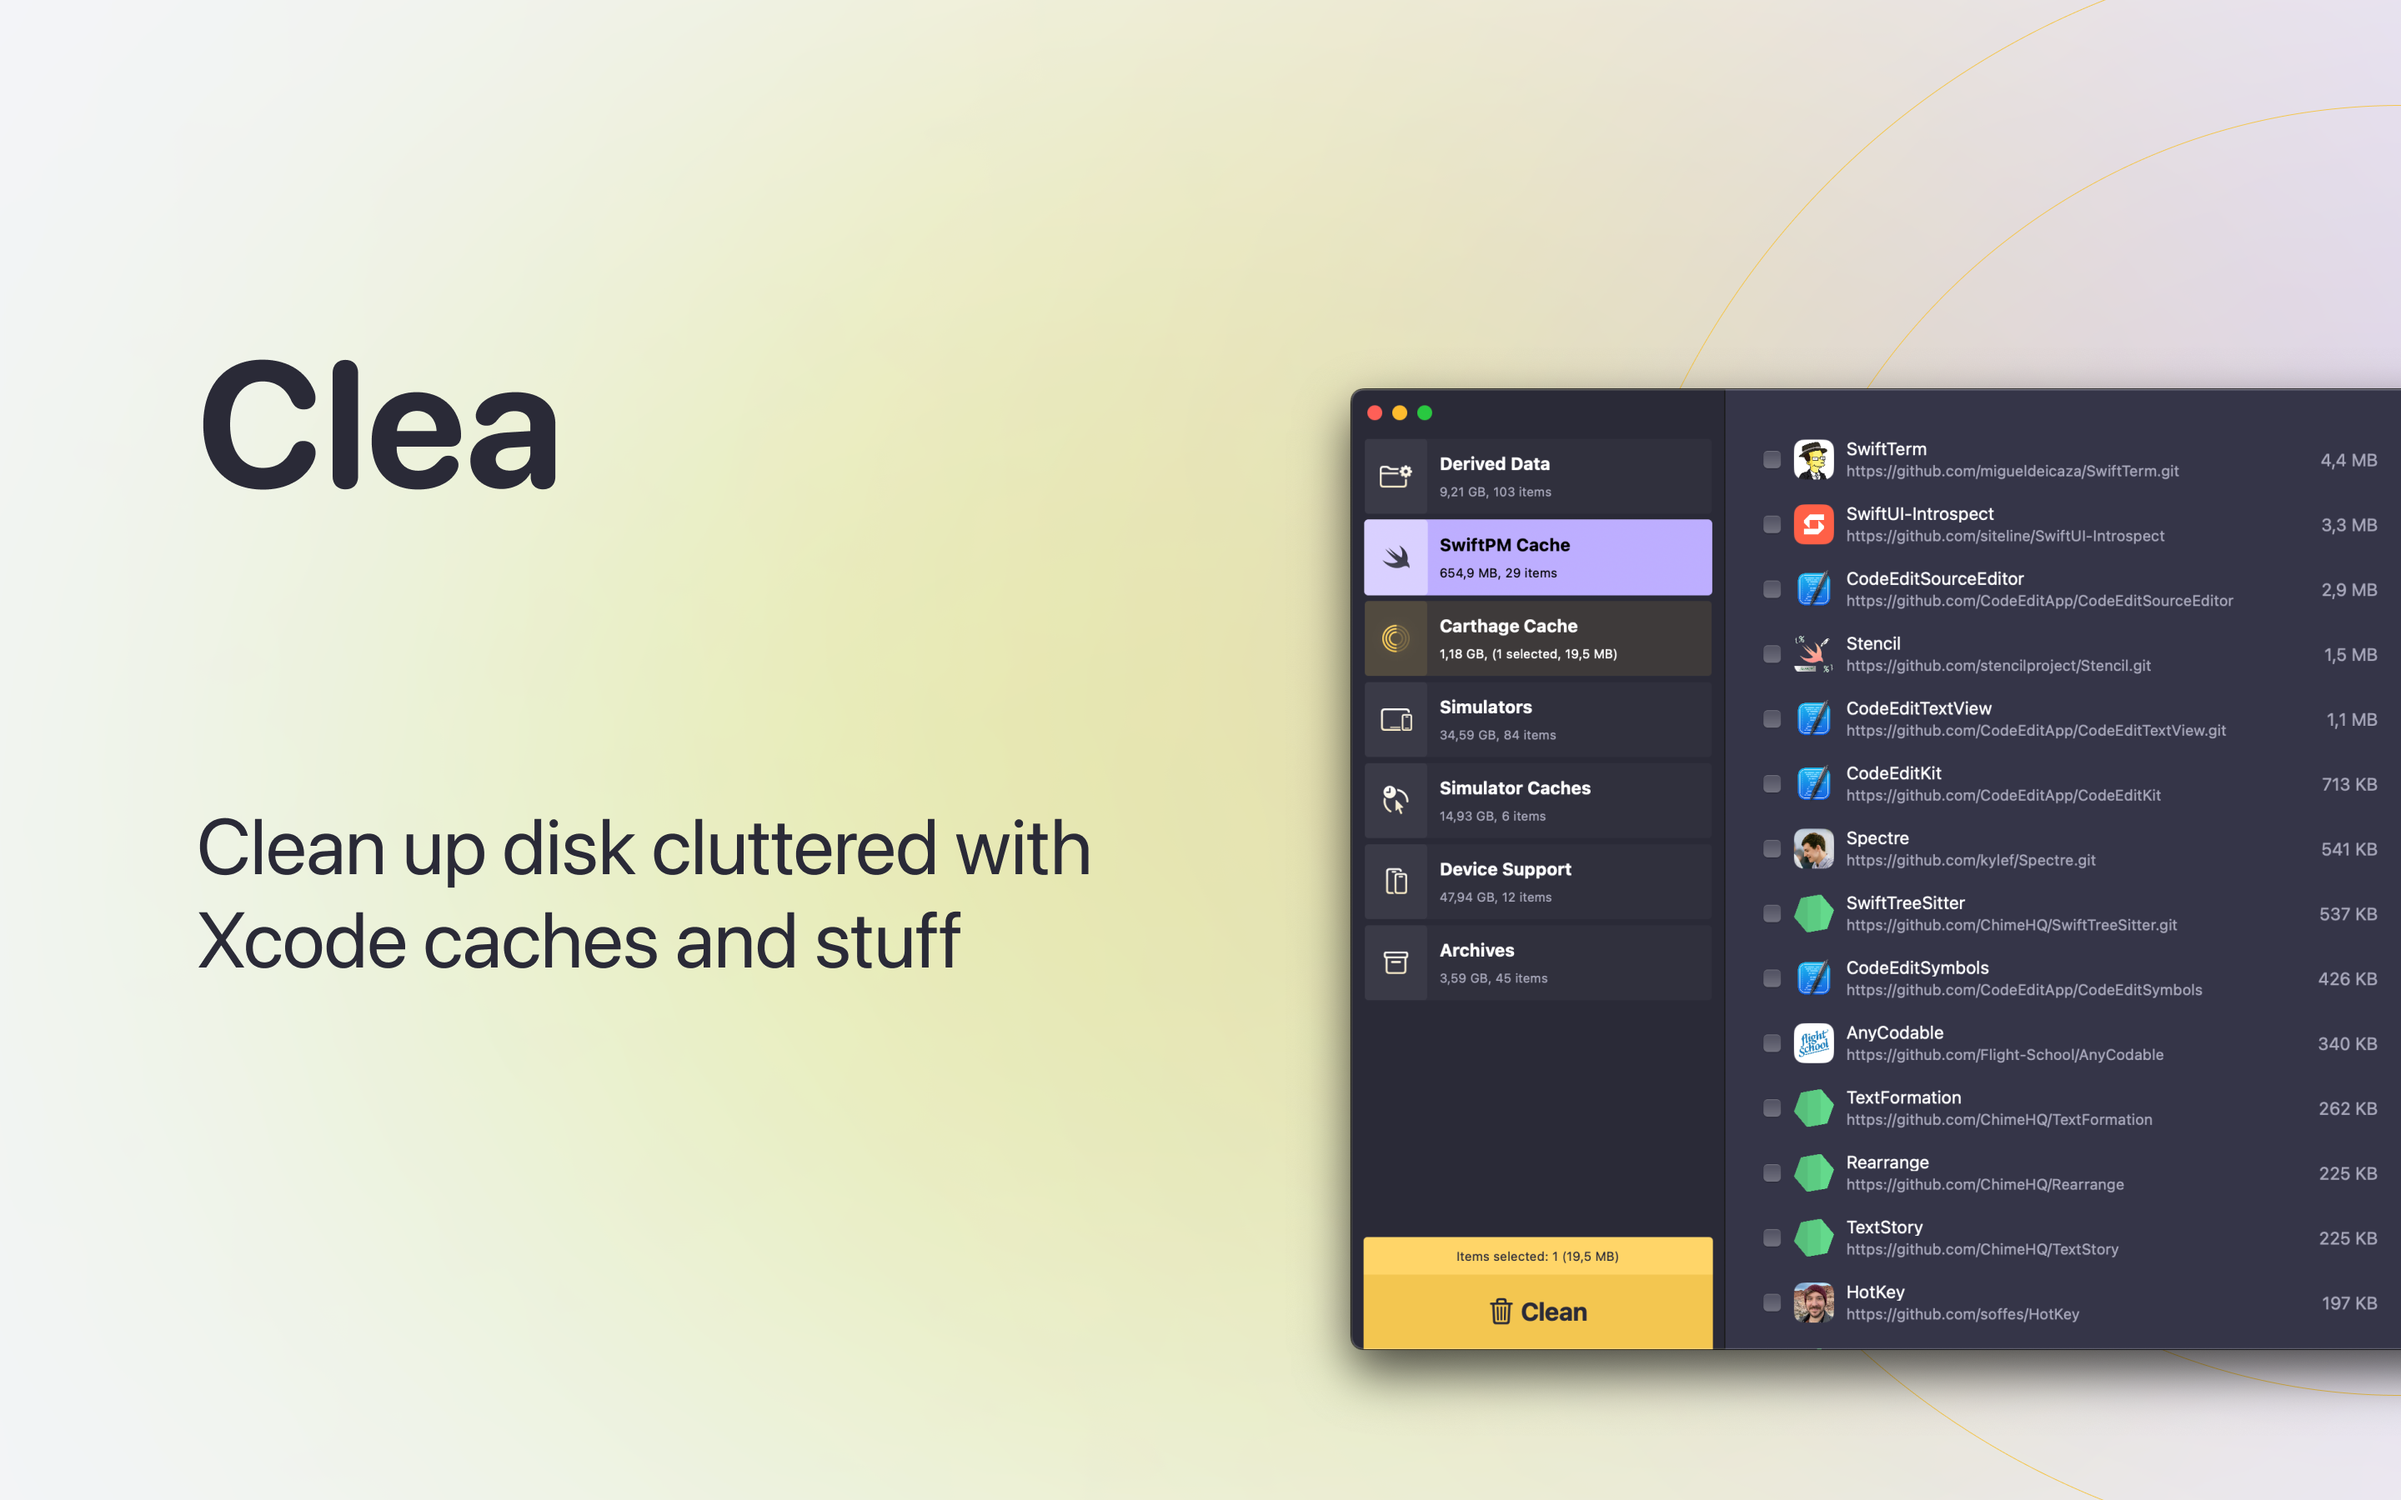
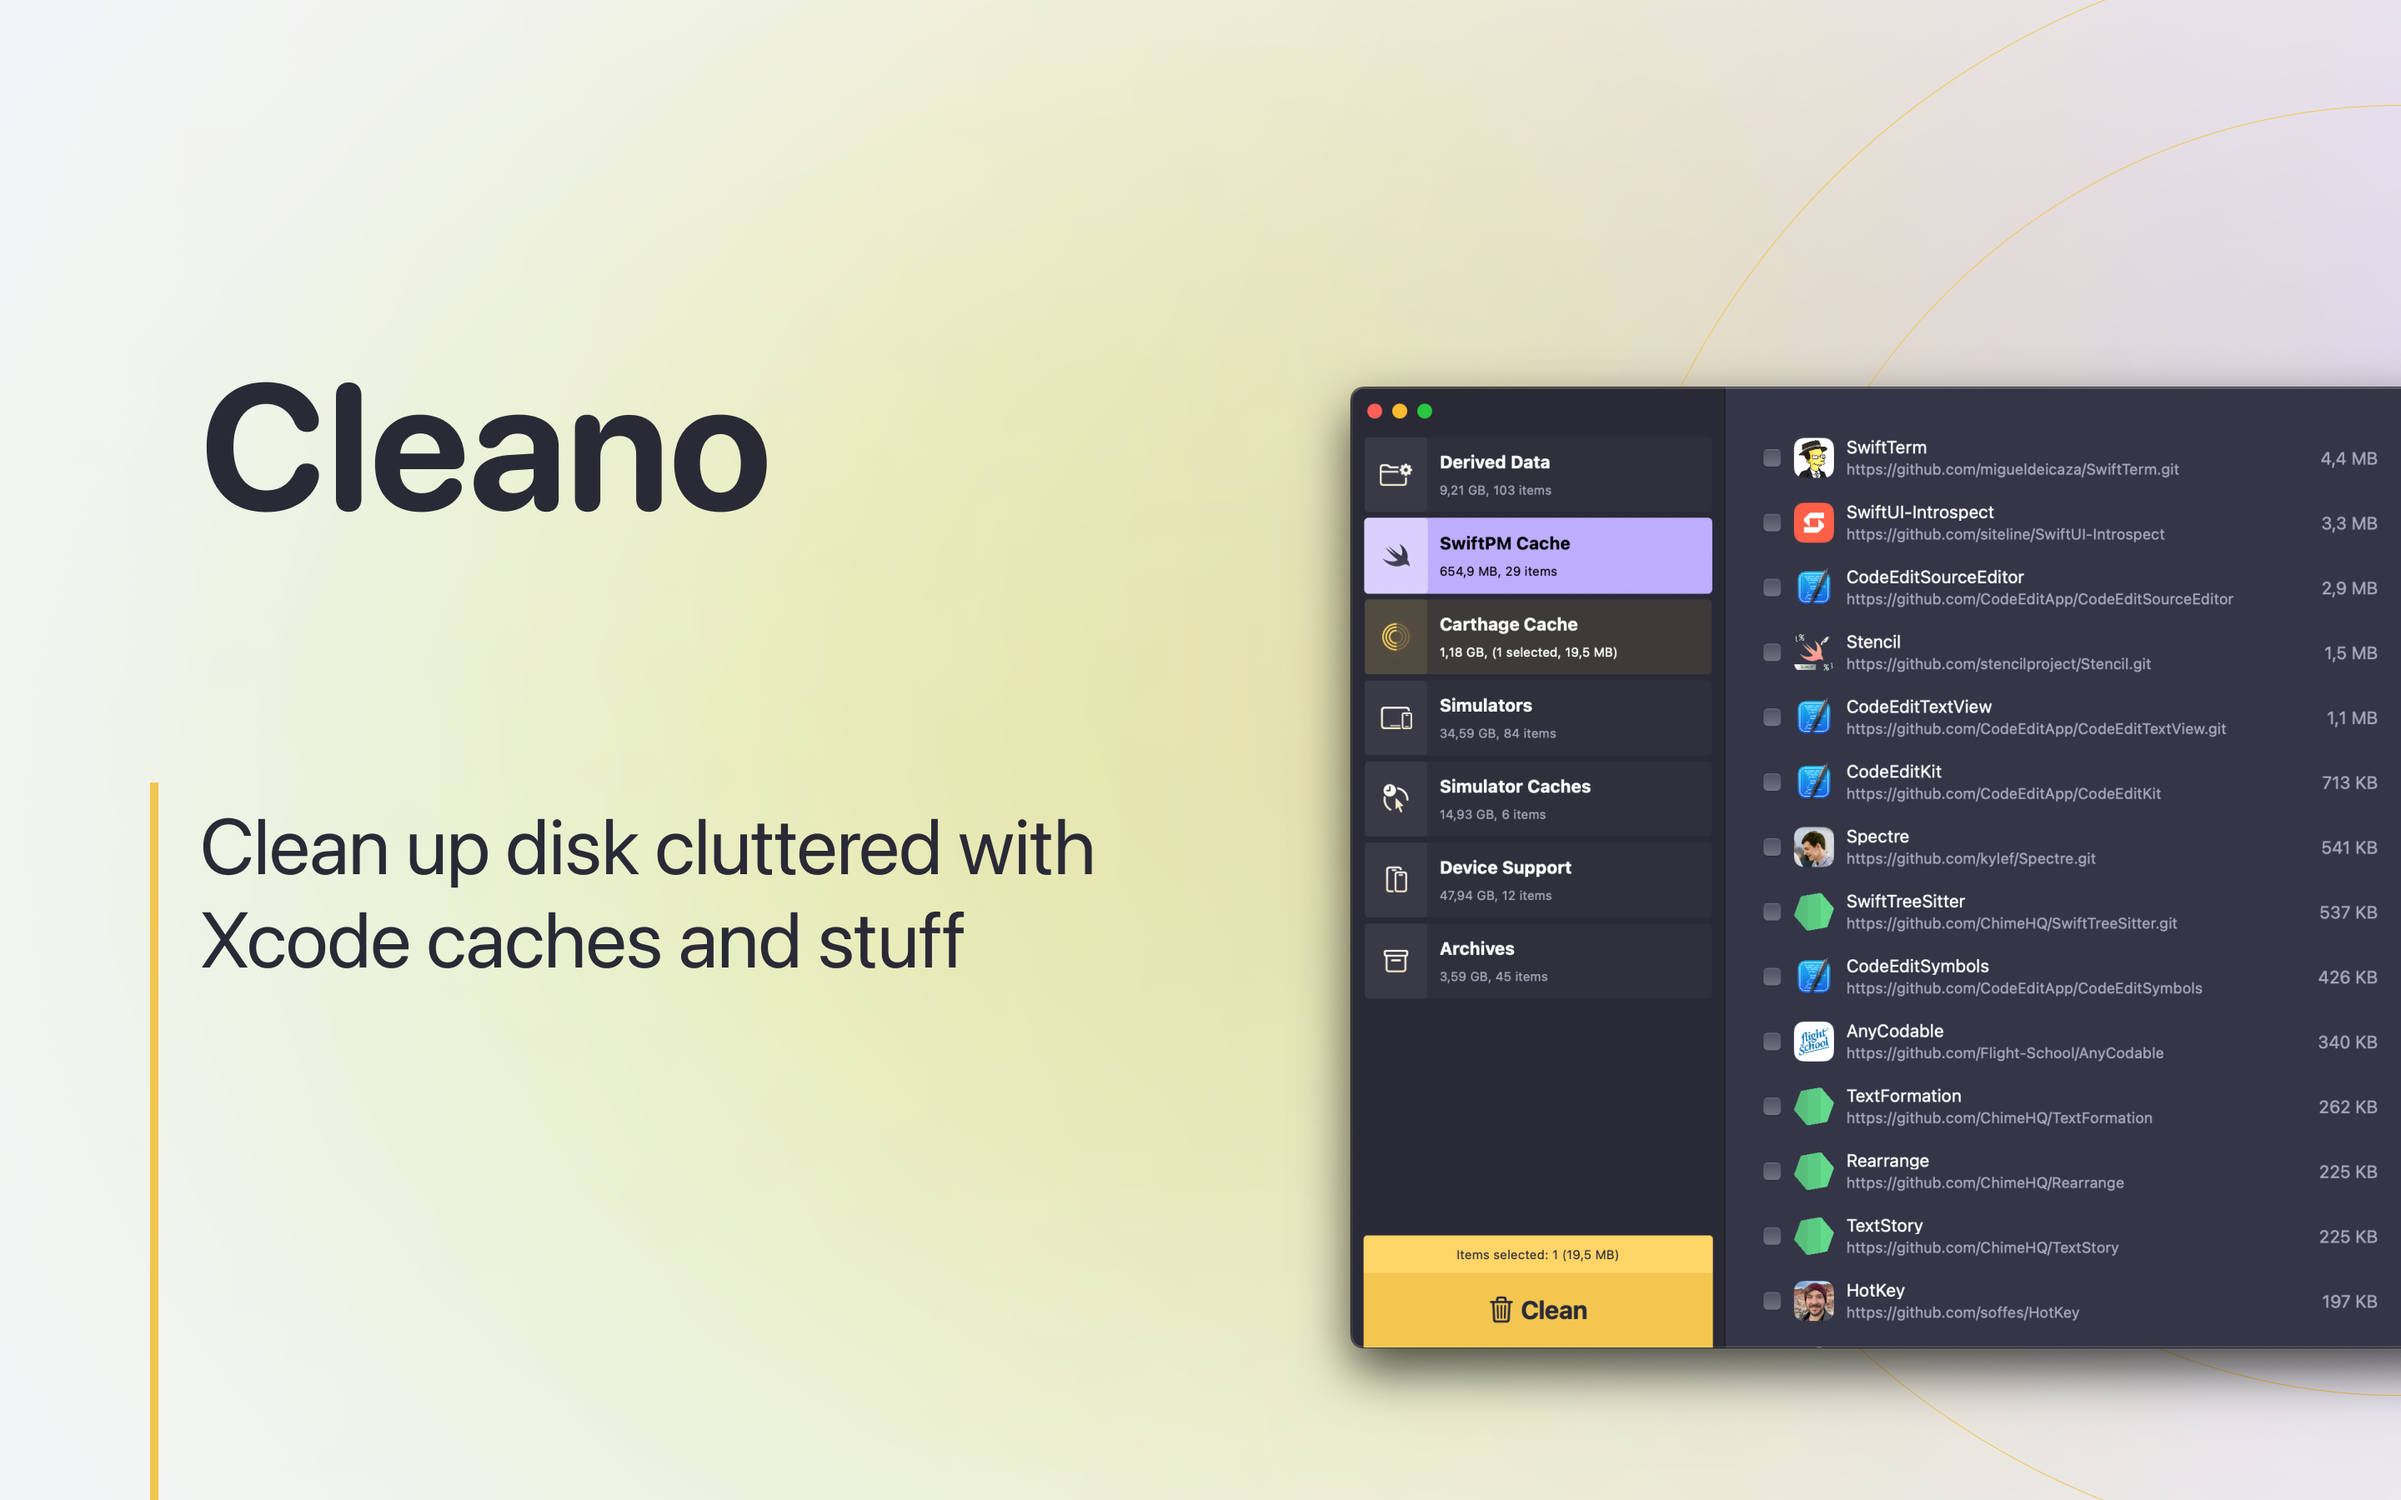
Name update

diff --git a/_layouts/default.html b/_layouts/default.html
@@ -16,7 +16,7 @@
     <a id="skip-to-content" href="#content">Skip to the content.</a>
 
     <header class="page-header" role="banner">
-      <h1 class="project-name">Clea</h1>
+      <h1 class="project-name">Cleano</h1>
       <h2 class="project-tagline">The missing cleaning app for Apple platforms developers</h2>
         <a href="{{ site.github.tf_url }}" class="btn">Download</a>
         <a href="{{ site.github.new_issue_url }}" class="btn">New issue</a>

diff --git a/README.md b/README.md
@@ -1,16 +1,16 @@
 ### About
-Clea is designed by developers, for developers. This tool simplifies the process of decluttering unnecessary files, focusing on those that are either expendable or easily restorable.
+Cleano is designed by developers, for developers. This tool simplifies the process of decluttering unnecessary files, focusing on those that are either expendable or easily restorable.
 
 # ![Cleaner](https://github.com/deszip/Cleaner-Tracker/raw/main/scr-1.png)
 
 ### Install
-Clea is in public beta now and available only via [TestFlight](https://testflight.apple.com/join/2rV85hKb).
+Cleano is in public beta now and available only via [TestFlight](https://testflight.apple.com/join/2rV85hKb).
 All features are free to use but still under development and can be changed in release version.
 
 # ![Cleaner](https://github.com/deszip/Cleaner-Tracker/raw/main/scr-2.png)
 
 ### Features
-At the moment Clea tracks and allows to cleanup next things:
+At the moment Cleano tracks and allows to cleanup next things:
 - Derived data
 - Swift PM caches
 - Simulators, via `simctl`
